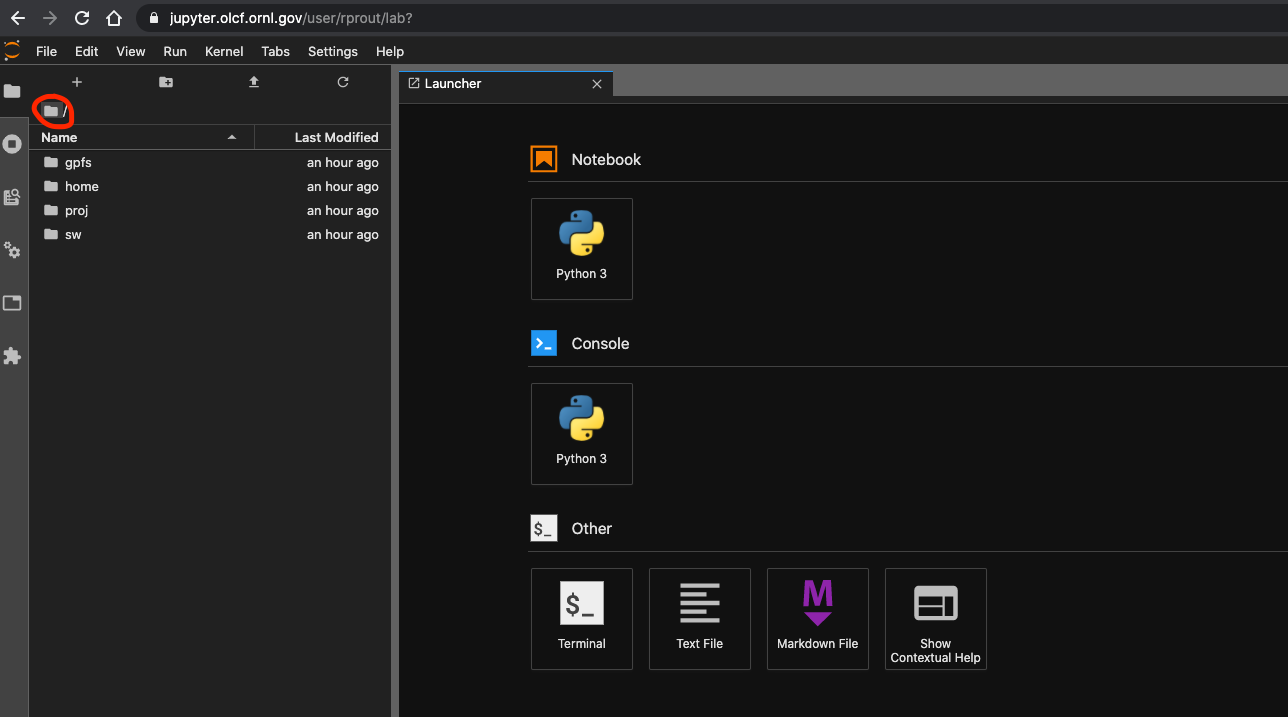
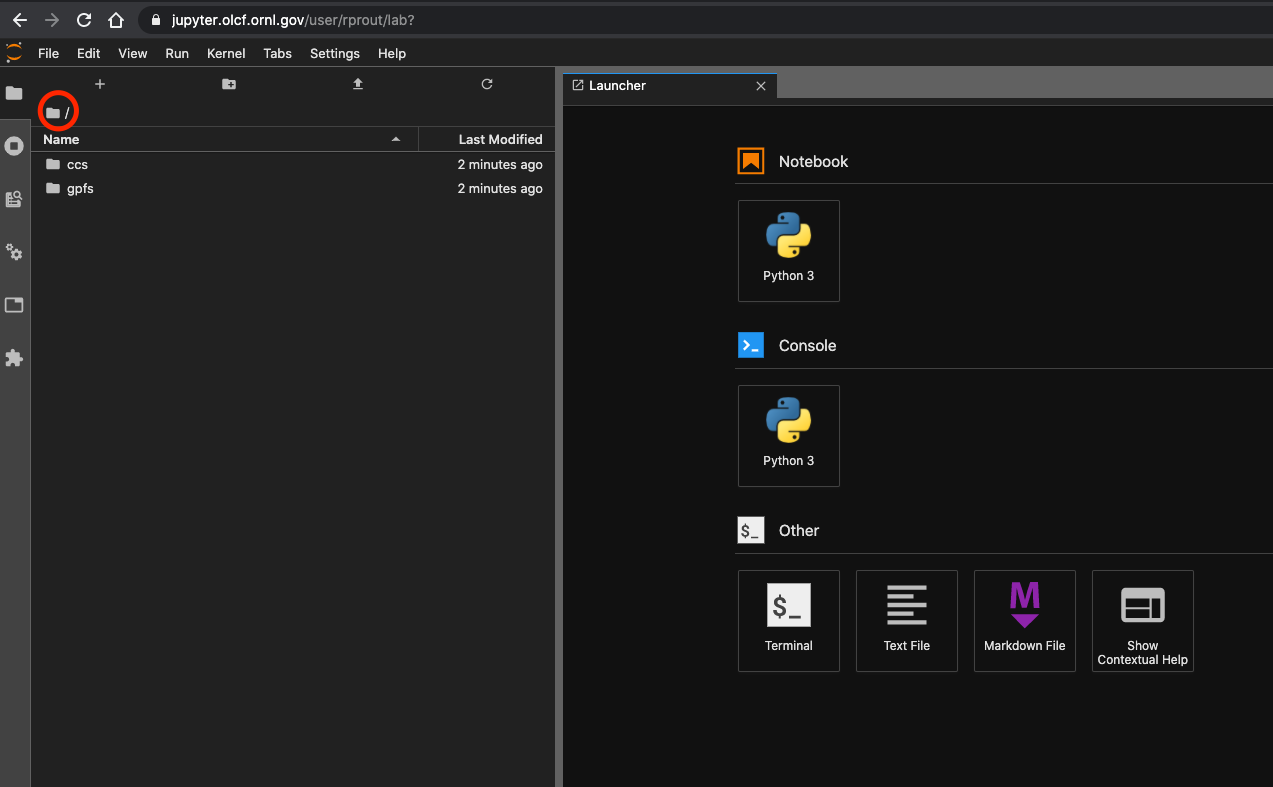
update images and some minor text

diff --git a/services_and_applications/jupyter/overview.rst b/services_and_applications/jupyter/overview.rst
@@ -63,11 +63,14 @@ Each single-user JupyterLab, spawned by OLCF's JupyterHub, gets these default re
 - 32GB Memory
 - NCCS filesystem access (GPFS and NFS)
 
-**You have the same filesystem access as if you were on Summit, to both NFS and GPFS, as you will be working under your standard OLCF UID.**
+**NOTE: You have the same filesystem access as if you were on Summit, to both NFS and GPFS, as you will be working under your standard OLCF UID.**
 
 The CPU-only JupyterLab is limited to the above resources.
 
 The GPU-enabled JupyterLab will launch a notebook onto a resource containing a GPU (in addtion to the above resources). This allows you to experiment with GPU-enabled anaylytics from JupyterLab.
+
+**NOTE: These GPU-enabled labs are limited. You may get get a message saying the resource is not schedulable, if all GPUs in the pool are occupied.**
+
 
 Working within GPFS and NFS
 ---------------------------
@@ -76,13 +79,9 @@ To see the root of your filesystem access, within your JupyterLab interface, cli
 
 .. image:: /images/jupyter/directory_access.png
 
-Here are the mappings:
+You should see **gpfs** and **ccs** - the "top" of GPFS amd NFS respectively.
 
-| **gpfs -> /gpfs/alpine**
-| **home -> /ccs/home**
-| **proj -> /ccs/proj**
-
-Then, you can start a notebook in the directory of your choosing (relative to your user access). In the example image below, I have launched a notebook in my /ccs/proj/<proj>/<uid>/ directory:
+Then, you can start a notebook in the directory of your choosing (relative to your user access). In the example image below, I have launched a notebook in my **/ccs/proj/<proj>/<uid>/** directory:
 
 .. image:: /images/jupyter/directory_example.png
 
@@ -152,3 +151,8 @@ Example: Creating a Conda environment for Tensorflow
 
 To delete your environment, you will need to delete it from the path where the environment
 was created, as well as delete the corresponding directory from ``~/.local/share/jupyter/kernels``.
+
+Example Jupyter Notebooks
+-------------------------
+
+Please check out our OLCF `Jupyter-Examples <https://github.com/olcf/jupyter-examples>`__ repository on GitHub.
